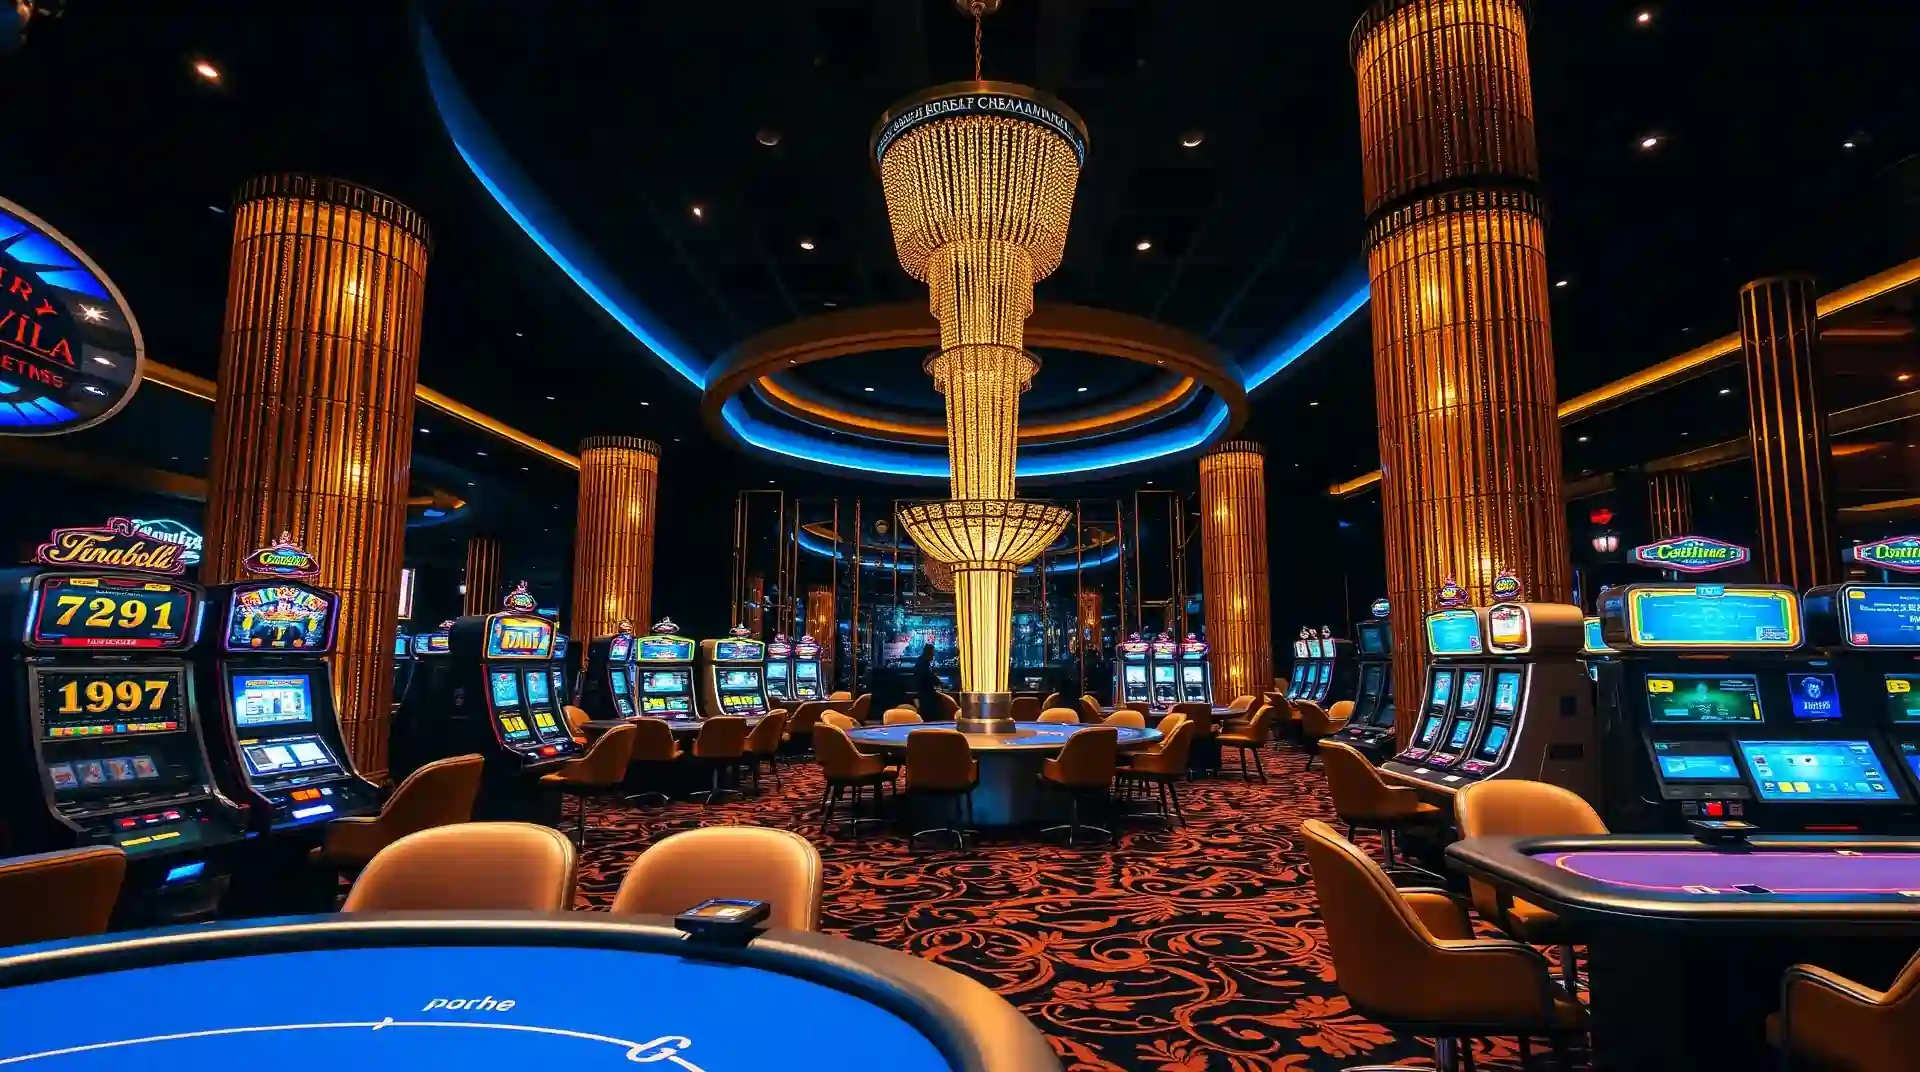
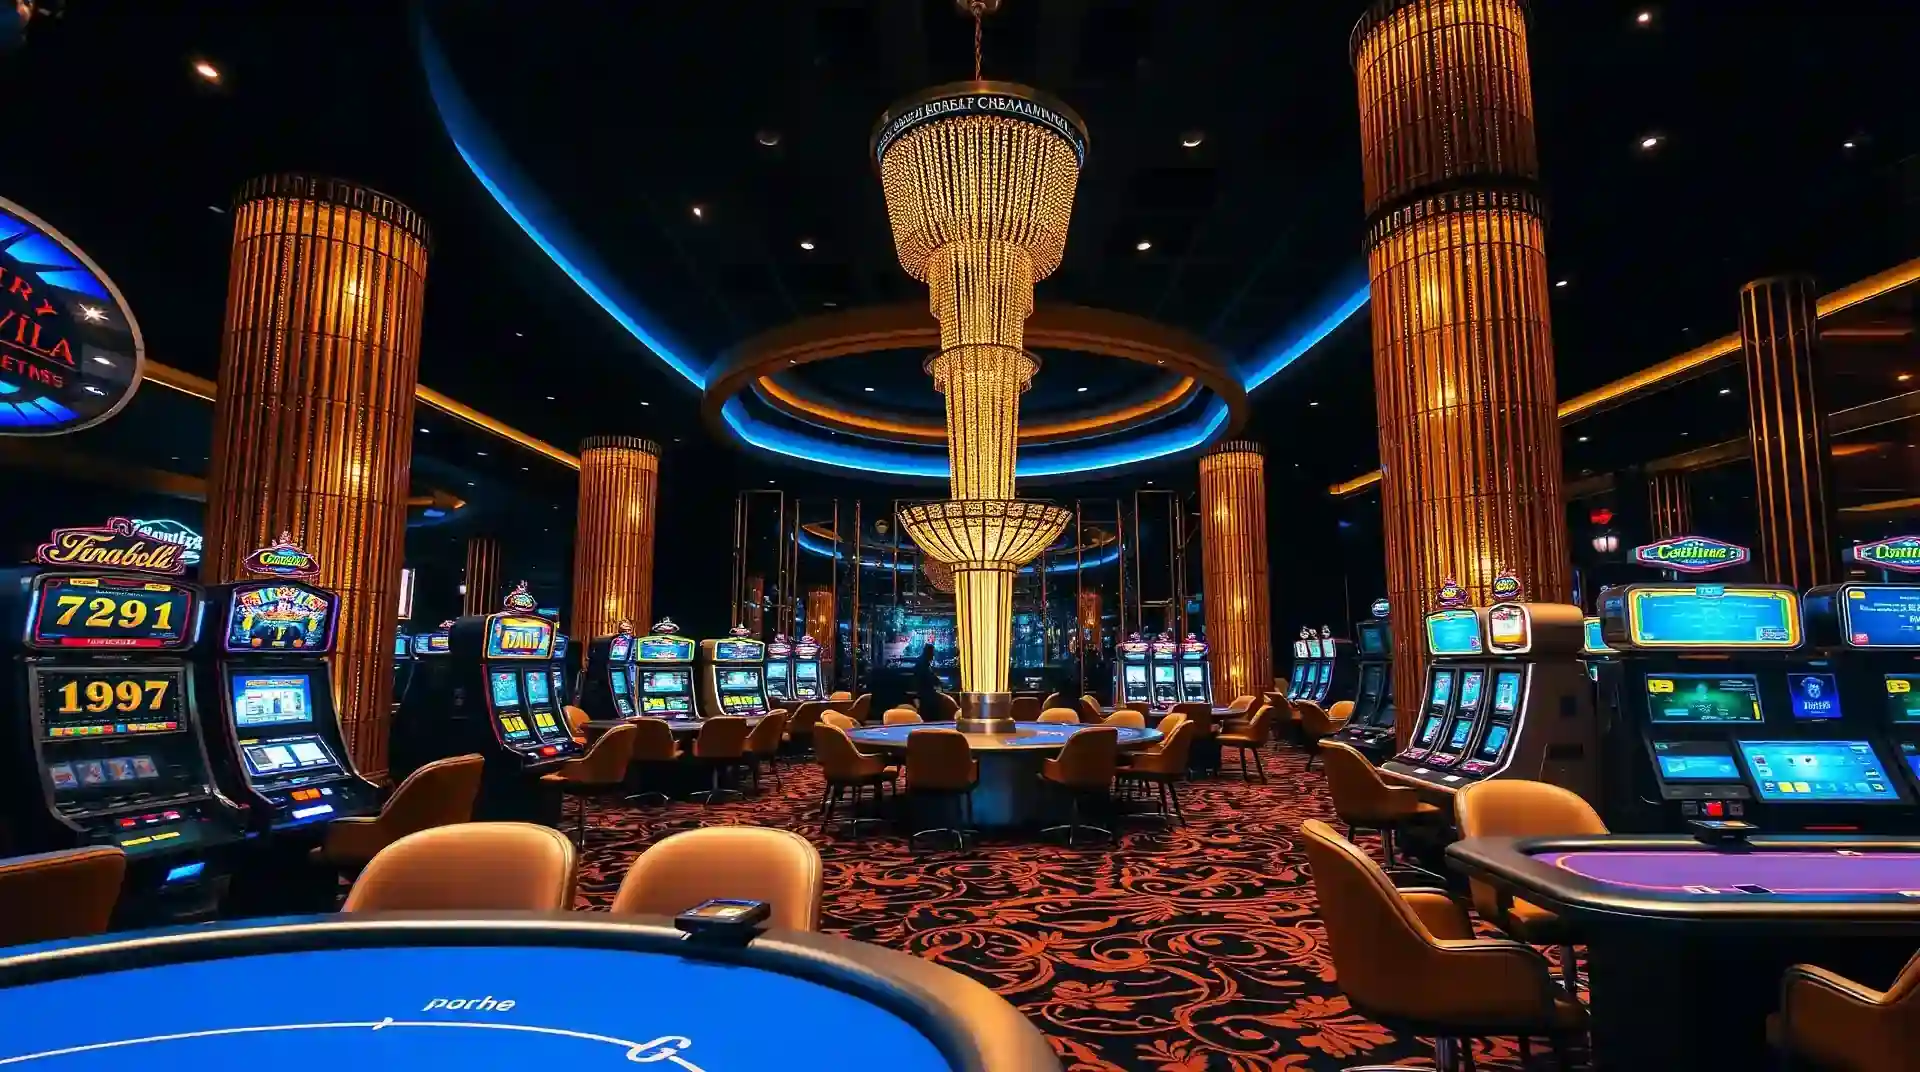
added changes in top casino schema format and also fixed the pagination href problem

diff --git a/src/lib/seo-itemlist.ts b/src/lib/seo-itemlist.ts
@@ -40,20 +40,99 @@ export async function fetchItemListSnapshot(
   return mapped;
 }
 
-export function buildItemListJsonLd(name: string, items: Array<{ name: string; url: string; image?: string }>) {
+// export function buildItemListJsonLd(name: string, items: Array<{ name: string; url: string; image?: string }>) {
+//   return {
+//     "@context": "https://schema.org",
+//     "@type": "ItemList",
+//     name,
+//     itemListElement: items.map((item, i) => ({
+//       "@type": "ListItem",
+//       position: i + 1,
+//       item: {
+//         "@type": "Thing",
+//         name: item.name,
+//         url: item.url,
+//         ...(item.image ? { image: item.image } : {}),
+//       },
+//     })),
+//   };
+// }
+
+export function buildItemListJsonLd(
+  name: string,
+  items: Array<{
+    name: string;
+    url: string;
+    image?: string;
+  }>
+) {
   return {
     "@context": "https://schema.org",
-    "@type": "ItemList",
-    name,
-    itemListElement: items.map((item, i) => ({
-      "@type": "ListItem",
-      position: i + 1,
-      item: {
-        "@type": "Thing",
-        name: item.name,
-        url: item.url,
-        ...(item.image ? { image: item.image } : {}),
+
+    "@graph": [
+      {
+        "@type": "CollectionPage",
+        "@id": `${SITE_URL}/casinos#webpage`,
+        url: `${SITE_URL}/casinos`,
+        name: "Top Rated Online Casinos",
+        description:
+          "Find the best online casinos with expert reviews, ratings, and exclusive bonuses.",
       },
-    })),
+
+      {
+        "@type": "ItemList",
+        "@id": `${SITE_URL}/casinos#itemlist`,
+        name,
+
+        itemListElement: items.map((item, i) => ({
+          "@type": "ListItem",
+
+          position: i + 1,
+
+          url: item.url,
+
+          item: {
+            "@type": "Organization",
+
+            name: item.name,
+
+            url: item.url,
+
+            ...(item.image ? { image: item.image } : {}),
+
+            description: `${item.name} offers a welcome bonus package for new users`,
+
+            aggregateRating: {
+              "@type": "AggregateRating",
+              ratingValue: 4.5,
+              reviewCount: 1,
+              bestRating: 5,
+              worstRating: 1,
+            },
+
+            keywords: `${item.name} casino, online casino, casino bonus`,
+
+            makesOffer: {
+              "@type": "Offer",
+
+              name: `${item.name} Casino Bonus`,
+
+              description: `${item.name} offers a welcome bonus package for new users`,
+
+              price: "1000",
+
+              priceCurrency: "USD",
+            },
+          },
+        })),
+      },
+
+      {
+        "@type": "Organization",
+        "@id": `${SITE_URL}#organization`,
+        name: "TheOceanGame",
+        url: SITE_URL,
+      },
+    ],
   };
 }

diff --git a/src/app/blog/page.tsx b/src/app/blog/page.tsx
@@ -37,7 +37,14 @@ async function getCmsSeo(slug: string): Promise<CmsSeoRecord | null> {
   return (json.data ?? json) as CmsSeoRecord;
 }
 
-export async function generateMetadata(): Promise<Metadata> {
+export async function generateMetadata({
+  searchParams,
+}: {
+  searchParams?: Promise<QueryMap>;
+}): Promise<Metadata> {
+  const params = (await searchParams) ?? {};
+  const blogsPage = readPageParam(params.blogsPage, 1);
+
   const cms = await getCmsSeo("blog");
 
   const title = cms?.seoTitle?.trim() || TITLE;
@@ -47,7 +54,13 @@ export async function generateMetadata(): Promise<Metadata> {
     cms?.seoImage ?? cms?.featureImg ?? cms?.image,
   );
 
+  const pageUrl = blogsPage > 1 ? `/blog?blogsPage=${blogsPage}` : "/blog";
+
   return {
+    metadataBase: new URL(
+      process.env.NEXT_PUBLIC_SITE_URL ?? "https://theoceangame.com",
+    ),
+
     title,
     description,
 
@@ -63,20 +76,19 @@ export async function generateMetadata(): Promise<Metadata> {
       },
     },
 
-    keywords: Array.isArray(cms?.focusKeywords)
-      ? cms?.focusKeywords
-      : undefined,
+    keywords: Array.isArray(cms?.focusKeywords) ? cms.focusKeywords : undefined,
 
-    alternates: buildLocaleAlternates("/blog"),
-
-    metadataBase: new URL(
-      process.env.NEXT_PUBLIC_SITE_URL ?? "https://theoceangame.com",
-    ),
+    alternates:
+      blogsPage > 1
+        ? {
+            canonical: pageUrl,
+          }
+        : buildLocaleAlternates("/blog"),
 
     openGraph: buildOpenGraph({
       title,
       description,
-      url: "/blog",
+      url: pageUrl,
       image: ogImage ?? undefined,
       type: "website",
     }),

diff --git a/src/lib/api.ts b/src/lib/api.ts
@@ -11,7 +11,7 @@
 
 export const API_BASE = process.env.NEXT_PUBLIC_API_URL ?? "https://api.theoceangame.com";
 /** Revalidate SEO page data every N seconds (short cache, fewer backend calls). */
-export const SEO_CACHE_REVALIDATE_SECONDS = 60;
+export const SEO_CACHE_REVALIDATE_SECONDS = 600;
 export const API_PUBLIC = `${API_BASE}/api/v1/public`;
 
 export const ENDPOINTS = {
@@ -58,7 +58,10 @@ export type ApiSuccess<T> = { data: T };
 export type ApiError = { error: { code: string; message: string; details?: object } };
 
 export async function publicFetch<T>(url: string, init?: RequestInit): Promise<ApiSuccess<T>> {
-  const res = await fetch(url, init);
+  const res = await fetch(url, { ...init, next: {
+      revalidate: SEO_CACHE_REVALIDATE_SECONDS,
+      ...(init as any)?.next,
+    },});
   const json = await res.json();
   if (!res.ok) throw new Error((json as ApiError).error?.message ?? "Request failed");
   return json as ApiSuccess<T>;

diff --git a/src/app/casinos/page.tsx b/src/app/casinos/page.tsx
@@ -37,19 +37,19 @@ export async function generateMetadata(): Promise<Metadata> {
 }
 
 export default async function CasinosPage({ searchParams }: PageProps) {
-  const params = await searchParams ?? {};
+  const params = (await searchParams) ?? {};
   const page = readPageParam(params.page, 1);
   const snapshot = await fetchItemListSnapshot(ENDPOINTS.casinos, "casinos", 8);
 
   return (
     <>
-      <JsonLdScript
+      {/* <JsonLdScript
         data={buildCollectionJsonLd({
           name: TITLE,
           url: "/casinos",
           description: DESC,
         })}
-      />
+      /> */}
       <JsonLdScript
         data={buildBreadcrumbJsonLd([
           { name: "Home", url: "/" },
